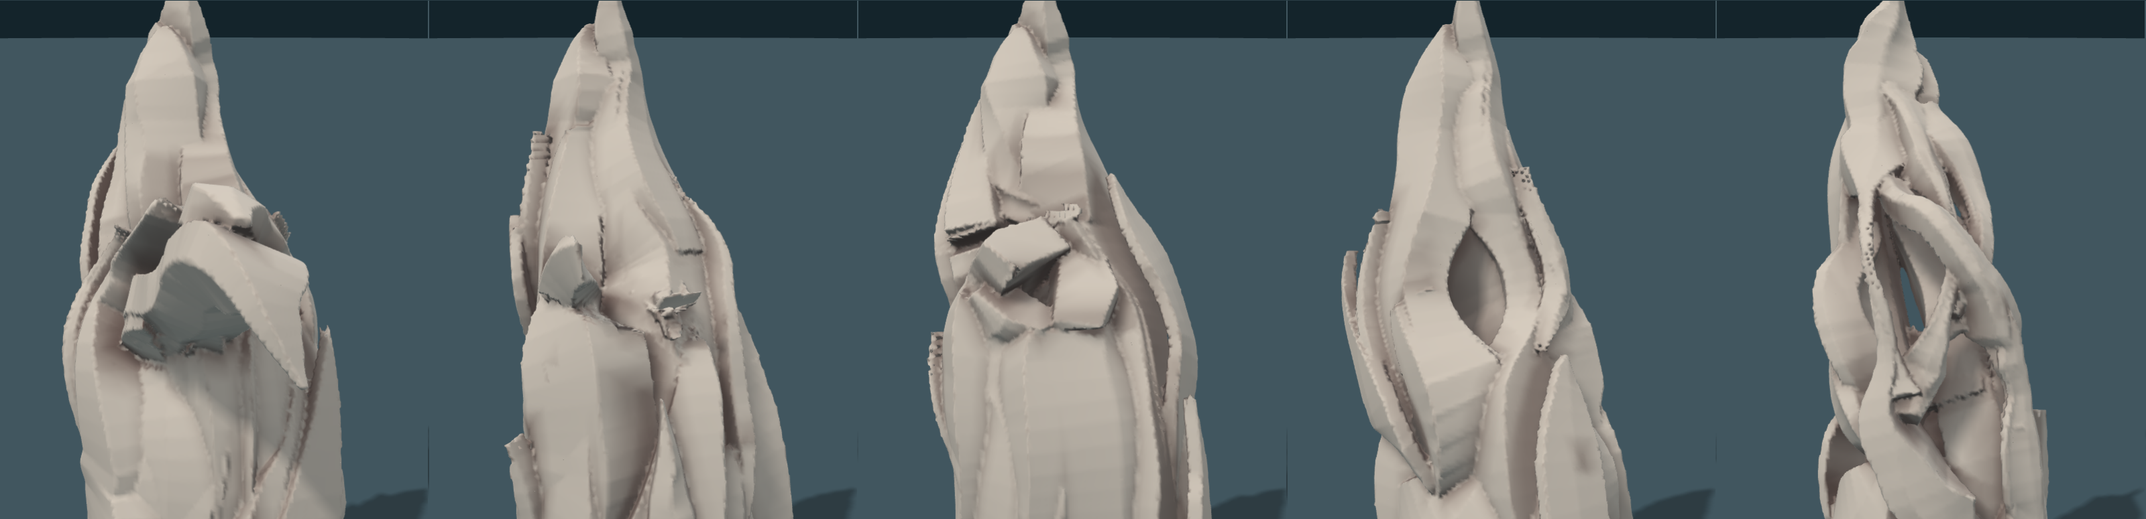
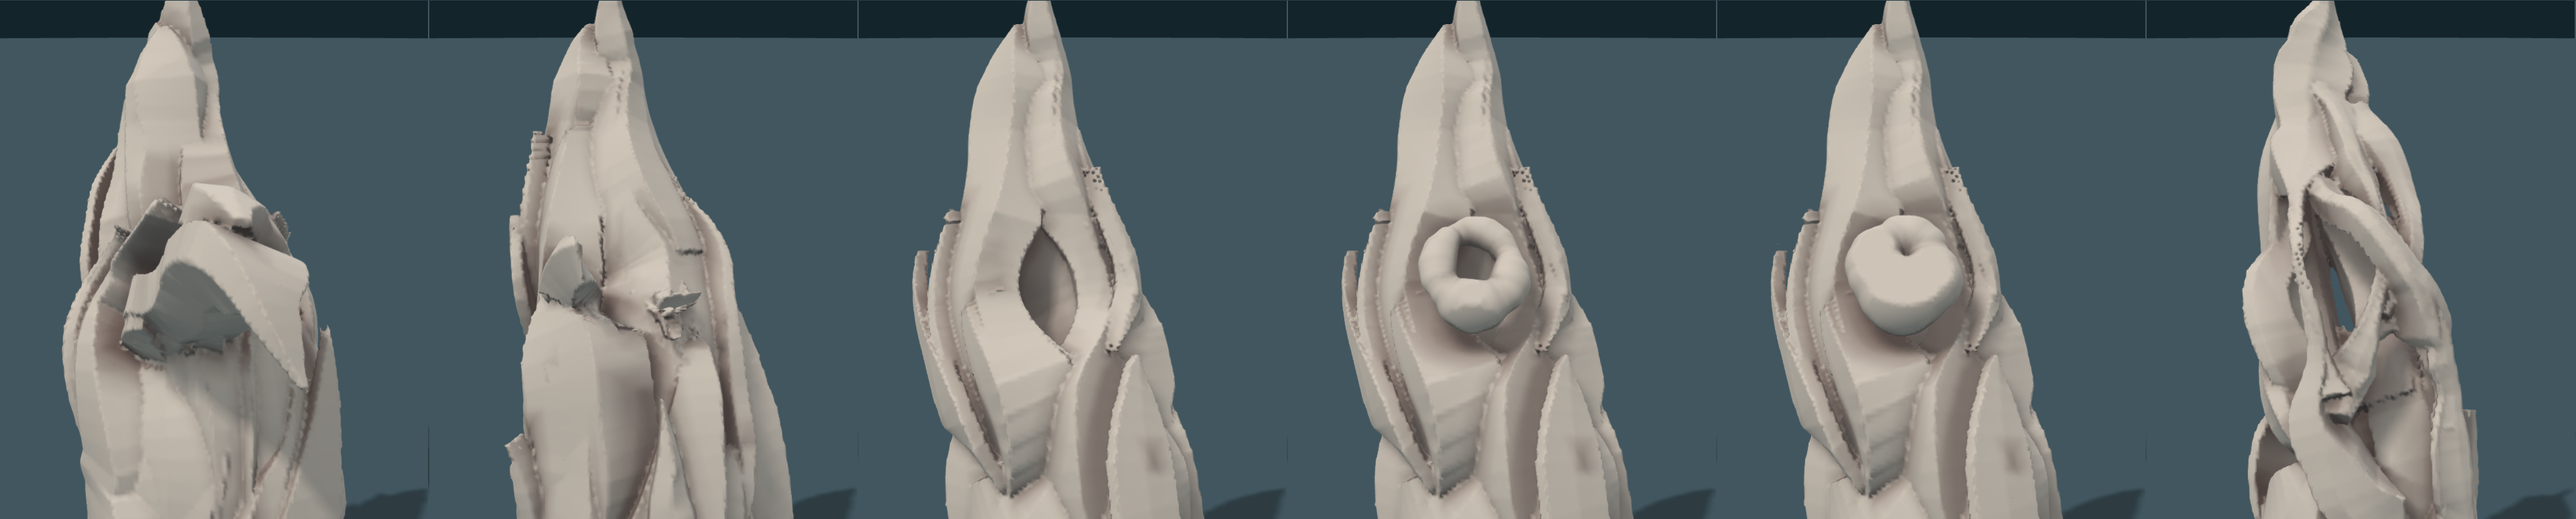
Scar as its own material: a knot is a hollow healed over by lips of scar; the knot of strand ends is withdrawn
Claude-Session: https://claude.ai/code/session_0192rgp75jGkttZXf7hEakip

diff --git a/trees.js b/trees.js
@@ -41,8 +41,8 @@
     const lay = (Ls, parent) => { for (const L of Ls || []) {
       const base = parent ? parent.path : trunk, from = parent ? parent.fi : 0, fi = Math.min(base.length - 2, Math.max(from + (parent ? 1 : 0), from + Math.round(L.at * (base.length - 1 - from))));
       const ctrl = [base[Math.max(0, fi - 14)], base[fi], ...L.path.map((p) => [p[0], p[1], p[2], 0])], all = line(ctrl, ds), skip = all.findIndex((p) => H(p[0] - base[fi][0], p[1] - base[fi][1], p[2] - base[fi][2]) < ds * 0.8);
-      // (a snapped shoot is cut short here: a fresh stub is longer than it is wide, a knot's is nearly flush, a hollow's is only a direction)
-      const want = Math.max(1, L.count || Math.round(L.share * n)), Re = base[fi][3] * Math.sqrt(want / (parent ? parent.want : n)), keep = L.stub ? Math.max(2, Math.round((0.75 * base[fi][3] + (L.stub === 'fresh' ? 1.6 * Re + 0.05 : L.stub === 'knot' ? 0.25 * Re + 0.02 : 0.07)) / ds)) : Infinity;   // (measured from where it comes out of the wood it leaves, not from that wood's middle)
+      // (a snapped shoot is cut short here: a fresh stub is longer than it is wide; once it has rotted out it is only a direction)
+      const want = Math.max(1, L.count || Math.round(L.share * n)), Re = base[fi][3] * Math.sqrt(want / (parent ? parent.want : n)), keep = L.stub ? Math.max(2, Math.round((0.75 * base[fi][3] + (L.stub === 'fresh' ? 1.6 * Re + 0.05 : 0.07)) / ds)) : Infinity;   // (measured from where it comes out of the wood it leaves, not from that wood's middle)
       const own = all.slice(Math.max(1, skip + 1)).slice(0, keep), lb = { L, fi, parent, own, base, want };
       lb.path = base.slice(0, fi + 1).concat(own); limbs.push(lb); lay(L.limbs, lb); } };
     lay(P.limbs, null); limbs.sort((x, y) => x.fi - y.fi); limbs.forEach((lb, li) => (lb.i = li));
@@ -65,9 +65,9 @@
       return [(s.a - m.ca) / m.ext, (s.b - m.cb) / m.ext, m.n]; };
     for (const s of S) {
       const path = s.limb >= 0 ? limbs[s.limb].path : trunk, fr = s.limb >= 0 ? limbs[s.limb].frames : tf, fi = s.limb >= 0 ? limbs[s.limb].fi : -1, own = path.length - 1 - Math.max(0, fi);
-      const first = s === S.find((q) => q.limb === s.limb), u1 = r(), u2 = r(), u3 = r(), stub = s.limb >= 0 ? limbs[s.limb].L.stub : null; s.snapped = stub ? stub !== 'hollow' : !first && u1 < 0.6;   // some strands snap short of the end, and keep their girth to the break
+      const first = s === S.find((q) => q.limb === s.limb), u1 = r(), u2 = r(), u3 = r(), stub = s.limb >= 0 ? limbs[s.limb].L.stub : null; s.snapped = stub ? stub === 'fresh' : !first && u1 < 0.6;   // some strands snap short of the end, and keep their girth to the break
       // (a shoot that snapped off: all its strands end at the break, a little apart; where it has rotted out they end below where it left, fined down to points like any other end)
-      const end = stub ? (stub === 'hollow' ? Math.max(4, fi - 3 - Math.round(5 * u2)) : path.length - 1 - (stub === 'knot' ? 0 : Math.round(own * 0.4 * u2))) : path.length - 1 - (first ? 0 : Math.round(own * (s.snapped ? 0.25 + 0.4 * u2 : 0.3 * u2))), fine = 0.12 + 0.2 * u3, X = [], rho = [], goal = [], hold = [];
+      const end = stub ? (stub !== 'fresh' ? Math.max(4, fi - 3 - Math.round(5 * u2)) : path.length - 1 - Math.round(own * 0.4 * u2)) : path.length - 1 - (first ? 0 : Math.round(own * (s.snapped ? 0.25 + 0.4 * u2 : 0.3 * u2))), fine = 0.12 + 0.2 * u3, X = [], rho = [], goal = [], hold = [];
       for (let i = 0; i <= end; i++) {
         const [u, v, m] = place(s, i), ow = ownerAt(s.limb, i), Rg = path[i][3] * Math.sqrt(m / (ow >= 0 ? limbs[ow].count : n)) * 0.8, wind = windAt(s.limb, i), c = Math.cos(wind), sn = Math.sin(wind), a = u * c - v * sn, b = u * sn + v * c, [, Nn, Bn] = fr[i];
         // (a limb's strands wind round each other as they go out)
@@ -86,16 +86,15 @@
     }
     // Where a shoot snapped off (a limb given as a `stub`). Three ages of the same event:
     //   fresh   the stub stands, its strands broken off a little apart
-    //   knot    the stub is nearly flush, and the wood that stayed has thickened round it
-    //   hollow  the stub has rotted out: its strands end inside
-    // In all three the place where the shoot was stays its own: a tunnel along its line, from inside the wood it
-    // left to well outside, which no other strand may lie in. So the wood that stayed flows round the wound and
-    // never closes across it. And the wood near the wound thickens (the collar). How much stub is left in the
-    // tunnel, how deep it goes and how thick the collar is, is the age.
+    //   hollow  the stub has rotted out: its strands end below, fined to points, and there is room where it was
+    //   knot    the same, healed over. Here a knot is exactly a hollow; what closes it is not wood and is not made
+    //           here (the surface lays scar over it). A knot built of strand ends was tried and withdrawn.
+    // A fresh stub keeps the place the shoot had as its own: a tunnel along its line which no other strand may
+    // lie in. And the wood near any wound thickens a little.
     const marks = [];
     for (const lb of limbs) if (lb.L.stub) { const b = lb.base[lb.fi], own = lb.own, d = unit([0, 1, 2].map((k) => own[Math.min(own.length - 1, 3)][k] - b[k])), s0 = S.find((q) => q.limb === lb.i), m = place(s0, lb.fi)[2], kind = lb.L.stub;
       // (a hollow is no wider than leaves the wood a back: wider, it is a window through it)
-      const Rb = b[3] * Math.sqrt(m / (lb.parent ? lb.parent.count : n)) * 0.8, r = Math.min(Math.max(0.045, own[0][3] * 0.9), kind === 'hollow' ? Math.max(0.045, 0.55 * Rb) : 9), deep = kind === 'hollow' ? 0.9 * r : 0.6 * r, at = (f) => [0, 1, 2].map((k) => b[k] + d[k] * f);
+      const Rb = b[3] * Math.sqrt(m / (lb.parent ? lb.parent.count : n)) * 0.8, r = Math.min(Math.max(0.045, own[0][3] * 0.9), kind !== 'fresh' ? Math.max(0.045, 0.55 * Rb) : 9), deep = kind !== 'fresh' ? 0.9 * r : 0.6 * r, at = (f) => [0, 1, 2].map((k) => b[k] + d[k] * f);
       marks.push({ c: at(Rb), a: at(Math.max(0, Rb - deep)), e: at(Rb + 1.5 * r), o: at(0.85 * Rb), R: Math.max(0.07, 0.75 * Rb), r, d, kind, limb: lb.i }); }
     let vg = 1;
     // an orb held in the trunk: a ball, with room round it for the strands that are willing to give it
@@ -106,7 +105,7 @@
     // that stayed part round. It opens gradually, as a splitting orb's does: opened all at once it throws strands across its own
     // mouth. Given `hollow: { at }` (0.4, say) the strands also split over it, as over an orb: an older, more ravaged hollow.
     // (The first hollow of a tree that holds no orb; any other is only its tunnel.)
-    else { const v = marks.find((q) => q.kind === 'hollow'); if (v) { orb = { c: v.o, r: 0.7 * v.R, room: v.R, empty: true }; v.asOrb = true; } }
+    else { const v = marks.find((q) => q.kind !== 'fresh'); if (v) { orb = { c: v.o, r: 0.7 * v.R, room: v.R, empty: true }; v.asOrb = true; } }
     const rhoMax = Math.max(...S.map((s) => Math.max(...s.rho))), cell = rhoMax * 2.1;
     // a strand that has split off another parts from it gradually: at the join the two are one, and they come
     // fully apart only some way along. (0: still one; 1: two.)
@@ -182,9 +181,9 @@
       S.forEach((s, i) => { for (let q = 0; q < s.K * 3; q++) s.X[q] += M[i][q]; }); }
       for (const s of S) for (let k = 0; k < s.K; k++) {   // to the orb, each as far as it is willing; and to the ground
         if (orb) { const keep = (orb.r + (orb.room - orb.r) * s.give) * grown + s.rho[k], dx = s.X[k * 3] - orb.c[0], dy = s.X[k * 3 + 1] - orb.c[1], dz = s.X[k * 3 + 2] - orb.c[2], d = H(dx, dy, dz) || 1e-9; s.on[k] = d < keep + 0.004 ? 1 : 0; if (d < keep) { s.press += keep - d; const f = keep / d; s.X[k * 3] = orb.c[0] + dx * f; s.X[k * 3 + 1] = orb.c[1] + dy * f; s.X[k * 3 + 2] = orb.c[2] + dz * f; } }
-        for (const v of marks) { if (v.asOrb || (s.limb === v.limb && v.kind !== 'hollow')) continue;   // and out of the tunnel where a shoot was (its own stub, if it has one, is what lies there)
+        for (const v of marks) { if (v.asOrb || (s.limb === v.limb && v.kind === 'fresh')) continue;   // and out of the tunnel where a shoot was (its own stub, if it has one, is what lies there)
           const ax = v.e[0] - v.a[0], ay = v.e[1] - v.a[1], az = v.e[2] - v.a[2], t = Math.max(0, Math.min(1, ((s.X[k * 3] - v.a[0]) * ax + (s.X[k * 3 + 1] - v.a[1]) * ay + (s.X[k * 3 + 2] - v.a[2]) * az) / (ax * ax + ay * ay + az * az))), qx = v.a[0] + ax * t, qy = v.a[1] + ay * t, qz = v.a[2] + az * t;
-          const keep = v.r * (v.kind === 'hollow' ? 1 : 0.8) * vg + s.rho[k], dx = s.X[k * 3] - qx, dy = s.X[k * 3 + 1] - qy, dz = s.X[k * 3 + 2] - qz, d = H(dx, dy, dz) || 1e-9; if (d < keep) { const f = keep / d; s.X[k * 3] = qx + dx * f; s.X[k * 3 + 1] = qy + dy * f; s.X[k * 3 + 2] = qz + dz * f; } }
+          const keep = v.r * (v.kind !== 'fresh' ? 1 : 0.8) * vg + s.rho[k], dx = s.X[k * 3] - qx, dy = s.X[k * 3 + 1] - qy, dz = s.X[k * 3 + 2] - qz, d = H(dx, dy, dz) || 1e-9; if (d < keep) { const f = keep / d; s.X[k * 3] = qx + dx * f; s.X[k * 3 + 1] = qy + dy * f; s.X[k * 3 + 2] = qz + dz * f; } }
         if (s.goal[k * 3 + 1] > 0 && s.X[k * 3 + 1] < s.rho[k] * 0.6) s.X[k * 3 + 1] = s.rho[k] * 0.6; }   // but a root that dives is let through
       joins();
       if (SP && pass % SP.every === 0) { const cand = S.map((s, i) => [s.press, i]).filter((q) => q[0] > SP.at).sort((a, b) => b[0] - a[0]); for (const [, i] of cand) { if (S.length >= SP.most) break; divide(i); } for (const s of S) s.press = 0; }
@@ -199,9 +198,9 @@
       S.forEach((s, i) => { for (let q = 0; q < s.K * 3; q++) s.X[q] += M[i][q]; }); }
       for (const s of S) for (let k = 0; k < s.K; k++) {   // to the orb, each as far as it is willing; and to the ground
         if (orb) { const keep = (orb.r + (orb.room - orb.r) * s.give) * grown + s.rho[k], dx = s.X[k * 3] - orb.c[0], dy = s.X[k * 3 + 1] - orb.c[1], dz = s.X[k * 3 + 2] - orb.c[2], d = H(dx, dy, dz) || 1e-9; s.on[k] = d < keep + 0.004 ? 1 : 0; if (d < keep) { const f = keep / d; s.X[k * 3] = orb.c[0] + dx * f; s.X[k * 3 + 1] = orb.c[1] + dy * f; s.X[k * 3 + 2] = orb.c[2] + dz * f; } }
-        for (const v of marks) { if (v.asOrb || (s.limb === v.limb && v.kind !== 'hollow')) continue;   // and out of the tunnel where a shoot was (its own stub, if it has one, is what lies there)
+        for (const v of marks) { if (v.asOrb || (s.limb === v.limb && v.kind === 'fresh')) continue;   // and out of the tunnel where a shoot was (its own stub, if it has one, is what lies there)
           const ax = v.e[0] - v.a[0], ay = v.e[1] - v.a[1], az = v.e[2] - v.a[2], t = Math.max(0, Math.min(1, ((s.X[k * 3] - v.a[0]) * ax + (s.X[k * 3 + 1] - v.a[1]) * ay + (s.X[k * 3 + 2] - v.a[2]) * az) / (ax * ax + ay * ay + az * az))), qx = v.a[0] + ax * t, qy = v.a[1] + ay * t, qz = v.a[2] + az * t;
-          const keep = v.r * (v.kind === 'hollow' ? 1 : 0.8) * vg + s.rho[k], dx = s.X[k * 3] - qx, dy = s.X[k * 3 + 1] - qy, dz = s.X[k * 3 + 2] - qz, d = H(dx, dy, dz) || 1e-9; if (d < keep) { const f = keep / d; s.X[k * 3] = qx + dx * f; s.X[k * 3 + 1] = qy + dy * f; s.X[k * 3 + 2] = qz + dz * f; } }
+          const keep = v.r * (v.kind !== 'fresh' ? 1 : 0.8) * vg + s.rho[k], dx = s.X[k * 3] - qx, dy = s.X[k * 3 + 1] - qy, dz = s.X[k * 3 + 2] - qz, d = H(dx, dy, dz) || 1e-9; if (d < keep) { const f = keep / d; s.X[k * 3] = qx + dx * f; s.X[k * 3 + 1] = qy + dy * f; s.X[k * 3 + 2] = qz + dz * f; } }
         if (s.goal[k * 3 + 1] > 0 && s.X[k * 3 + 1] < s.rho[k] * 0.6) s.X[k * 3 + 1] = s.rho[k] * 0.6; }   // but a root that dives is let through
       joins();
     }

diff --git a/sketch/page7.js b/sketch/page7.js
@@ -11,7 +11,7 @@
 // Nothing is swept or blended. Throwaway like the other pages.
 (function () {
   const shard = (K) => Wood5.shard(Object.assign(K, { inset: true })),   // a slanted end cuts back into its piece, never out past it
-    { H, PI, clamp, sstep } = Fantastic.kit, mesh = Fantastic.mesh;
+    { H, PI, clamp, sstep, smin } = Fantastic.kit, mesh = Fantastic.mesh;
   function rng(seed) { let a = (seed * 2654435761) >>> 0; return () => { a = (a + 0x6d2b79f5) | 0; let t = Math.imul(a ^ (a >>> 15), 1 | a); t = (t + Math.imul(t ^ (t >>> 7), 61 | t)) ^ t; return ((t ^ (t >>> 14)) >>> 0) / 4294967296; }; }
   const unit = (a) => { const l = H(a[0], a[1], a[2]) || 1; return [a[0] / l, a[1] / l, a[2] / l]; }, cross = (a, b) => [a[1] * b[2] - a[2] * b[1], a[2] * b[0] - a[0] * b[2], a[0] * b[1] - a[1] * b[0]], dot = (a, b) => a[0] * b[0] + a[1] * b[1] + a[2] * b[2];
   // ?set={...} in the page's address overrides any part of every recipe, for finding out what causes what
@@ -23,7 +23,7 @@
     // Room kept clear in the wood: round an orb, and where a snapped shoot has rotted out. And every wound, hollow or not,
     // is left quiet: no bark, shell or slivers near it, so that it is not one more detail among the others.
     // (An orb's room is a ball; a hollow's is the tunnel the shoot left, from a to e. `to` is the nearest point of a room's middle.)
-    const rooms = (t.orb ? [{ a: t.orb.c, e: t.orb.c, room: t.orb.room, orb: true }] : []).concat((t.marks || []).filter((v) => v.kind === 'hollow' && !v.asOrb).map((v) => ({ a: v.a, e: v.e, room: v.r }))), wounds = t.marks || [];
+    const rooms = (t.orb ? [{ a: t.orb.c, e: t.orb.c, room: t.orb.room, orb: true }] : []).concat((t.marks || []).filter((v) => v.kind !== 'fresh' && !v.asOrb).map((v) => ({ a: v.a, e: v.e, room: v.r }))), wounds = t.marks || [];
     const to = (o, x, y, z) => { const ax = o.e[0] - o.a[0], ay = o.e[1] - o.a[1], az = o.e[2] - o.a[2], l = ax * ax + ay * ay + az * az, u = l ? Math.max(0, Math.min(1, ((x - o.a[0]) * ax + (y - o.a[1]) * ay + (z - o.a[2]) * az) / l)) : 0; return [o.a[0] + ax * u, o.a[1] + ay * u, o.a[2] + az * u]; },
       away = (o, x, y, z) => { const q = to(o, x, y, z); return H(x - q[0], y - q[1], z - q[2]); };
     const nearOrb = (p) => (t.orb ? 1 - sstep(1.3, 2.2, H(p[0] - t.orb.c[0], p[1] - t.orb.c[1], p[2] - t.orb.c[2]) / t.orb.room) : 0);
@@ -78,7 +78,7 @@
           let lipU = 0; if (inn) { const sg = dot(inn, sv); if (Math.abs(sg) > 0.4) lipU = Math.sign(sg) * roomToward(base, sv.map((v) => v * Math.sign(sg)), Math.min(0.25 * s.gap[i], 1.0 * rho), rho, si, s.fam); }
           const home = fine && !s.thread && s.inner && s.inner[i] ? (first ? 1 - sstep(0, 0.35, q) : 0) + (last ? sstep(0.65, 1, q) : 0) : 0, hm = home ? home * (s.gap[i] + 0.6 * rho) : 0;   // its two ends bend back into what it tore from, so that it is never left hanging
           C.push([0, 1, 2].map((j) => base[j] + off[j] * stay + s.O[i][j] * rho * lift + (sv ? sv[j] * (gu + lipU) / 2 : 0) + (hm ? s.inner[i][j] * hm : 0))); O.push(s.O[i]); W.push(Math.max(0.006, Math.min(wCap, rho * w * front * back + (Math.abs(gu) + Math.abs(lipU)) / 2))); Hh.push(rho * high * (0.6 + 0.4 * front) + Math.max(0, gv) * 0.5); D.push(deepHere + Math.max(0, -gv)); }
-        const w1 = W[W.length - 1], end = ending === 'own' ? (s.stub === 'knot' ? { skew: 0.5 * (r() - 0.5) } : s.snapped ? { skew: (r() < 0.5 ? -1 : 1) * (1.8 + 1.4 * r()), step: r() < 0.5 ? { u: 0.5 * (r() - 0.5), side: r() < 0.5 ? -1 : 1, a: w1 * (0.8 + 1.4 * r()) } : null } : { skew: 0 })
+        const w1 = W[W.length - 1], end = ending === 'own' ? (s.snapped ? { skew: (r() < 0.5 ? -1 : 1) * (1.8 + 1.4 * r()), step: r() < 0.5 ? { u: 0.5 * (r() - 0.5), side: r() < 0.5 ? -1 : 1, a: w1 * (0.8 + 1.4 * r()) } : null } : { skew: 0 })
           : ending === 'step' ? { skew: (r() < 0.5 ? -1 : 1) * (1.8 + 1.2 * r()), step: { u: 0.5 * (r() - 0.5), side: r() < 0.5 ? -1 : 1, a: w1 * (0.9 + 1.2 * r()) } } : ending === 'blunt' ? { skew: (r() < 0.5 ? -1 : 1) * (1.8 + 1.4 * r()) } : { skew: 0 };
         // The next piece starts under this one's front, as far back as the front is cut away: a point takes the last
         // third, a slant runs back by its skew times the width. Started any later it leaves a hole where the cut
@@ -145,6 +145,23 @@
     // is taken off again. Where bark stops, it stops on the boundary between two cells, so its edge is straight
     // runs and angles. The sheet itself is thin, flat-faced, of one thickness to its edge, and lies over the
     // strands, spanning the grooves between them. In places along the edge it has peeled.
+    // Scar. Where a shoot has rotted out and the wood has healed over the place, what closes it is a different
+    // stuff: soft and swollen, rolling in from the rim of the opening as a few lips of unequal size that press
+    // together in creases. It is not wood and is not built of wood's pieces. It lies in the room the strands left
+    // and nowhere else, so the strands hold it as they would an orb. It is narrower across the grain than along it,
+    // as the opening is, and does not stand far out of the wood. heal: 0 none (an open hollow), about 0.45
+    // lips round a hole, 0.9 closed (a knot).
+    const heal = Object.assign({ knot: 0.9, hollow: 0 }, recipe.heal || {}); count.scars = 0;
+    for (const v of wounds) { const hl = heal[v.kind] || 0; if (!hl || !v.asOrb || !t.orb) continue;
+      const c = t.orb.c, R = t.orb.room, d = v.d, u = unit(cross(d, Math.abs(d[1]) < 0.9 ? [0, 1, 0] : [1, 0, 0])), w = cross(d, u), rs = rng((recipe.seed || 1) + 77), n = 3 + Math.floor(2 * rs()), cuts = [], lips = [];
+      for (let i = 0, a = 2 * PI * rs(); i < n; i++) { cuts.push(a); a += 2 * PI / n * (0.6 + 0.8 * rs()); }
+      for (let i = 0; i < n; i++) { const a0 = cuts[i], a1 = i + 1 < n ? cuts[i + 1] : cuts[0] + 2 * PI, lr = R * (0.2 + 0.42 * hl) * (0.6 + 0.8 * rs()), rr = Math.max(0, R - lr * 0.95), m = R * (0.15 + 0.2 * rs()), pts = [];
+        for (let q = 0; q <= 4; q++) { const a = a0 + (a1 - a0) * (0.08 + 0.84 * q / 4); pts.push([0, 1, 2].map((k) => c[k] + d[k] * m + (u[k] * Math.cos(a) * 0.78 + w[k] * Math.sin(a)) * rr).concat(lr * (0.7 + 0.3 * Math.sin(PI * q / 4)))); }   // thickest in its middle
+        lips.push(pts); }
+      const f = (x, y, z) => { let dd = 9; for (const pts of lips) { let e = 9; for (let q = 0; q < 4; q++) { const a = pts[q], b = pts[q + 1], bx = b[0] - a[0], by = b[1] - a[1], bz = b[2] - a[2], tt = clamp(((x - a[0]) * bx + (y - a[1]) * by + (z - a[2]) * bz) / (bx * bx + by * by + bz * bz || 1e-9), 0, 1);
+            e = Math.min(e, H(x - a[0] - bx * tt, y - a[1] - by * tt, z - a[2] - bz * tt) - (a[3] + (b[3] - a[3]) * tt)); } dd = smin(dd, e, 0.012); }
+        return Math.max(dd, H(x - c[0], y - c[1], z - c[2]) - R * 0.99, (x - c[0]) * d[0] + (y - c[1]) * d[1] + (z - c[2]) * d[2] - 0.6 * R); };
+      all.push({ f, C: [c], reach: [R + 0.02], layer: 4 }); count.scars++; }
     const BK = recipe.bare || recipe.bark === 0 ? null : Object.assign({ cell: 0.075, stretch: 1.6, cover: 0.4, percolate: 0.985, cohere: 0.6, least: 10, thick: 0.02, peel: 0.18 }, recipe.bark || {}), rb = rng((recipe.seed || 1) + 123);
     // which pieces are near which place, so that only those are asked
     const cell = 0.12, grid = new Map(), key = (x, y, z) => (x + 64) * 16384 + (y + 64) * 128 + z + 64;

diff --git a/sketchbook10.html b/sketchbook10.html
@@ -20,7 +20,7 @@ select:focus-visible { outline: 2px solid var(--pick); outline-offset: 1px; }
   <label>shape <select id="which" aria-label="Which shape to show"><option value="-1">the whole page</option></select></label>
   <label>show <select id="cut" aria-label="How to show it"><option value="none">whole</option><option value="half">near half removed</option><option value="slice">thin slice</option></select></label>
   <label><input id="tint" type="checkbox"> colour by layer</label>
-  <span id="key" hidden style="font: 11.5px var(--mono); color: var(--dim)"><b style="color:#d8d2c6">strands</b> · <b style="color:#e6c36a">torn parts</b> · <b style="color:#e08ac0">slivers and shell</b> · <b style="color:#6f9fe0">bark</b></span>
+  <span id="key" hidden style="font: 11.5px var(--mono); color: var(--dim)"><b style="color:#d8d2c6">strands</b> · <b style="color:#e6c36a">torn parts</b> · <b style="color:#e08ac0">slivers and shell</b> · <b style="color:#6f9fe0">bark</b> · <b style="color:#86c98f">scar</b></span>
   <p>A sketchbook page: quick, rough, thrown away if nothing sticks. Sketches appear one at a time. Drag to turn, scroll to zoom.</p>
 </div>
 <div id="stage"><canvas id="view" aria-label="Sculpted solid shapes"></canvas><div id="tags"></div></div>
@@ -50,7 +50,7 @@ const clay = new T.Color(0xe7e0d4).convertSRGBToLinear(), deep = new T.Color(0x9
 const shapes = [], orbMat = new T.MeshStandardMaterial({ color: new T.Color(0xfff6e0).convertSRGBToLinear(), emissive: new T.Color(0xffe9b8).convertSRGBToLinear(), emissiveIntensity: 0.85, roughness: 0.6 });
 // each shape takes about a second to mesh, so they are built one at a time and appear as they finish
 // clay by default; or each layer in its own colour, to see which layer is doing what
-const LAYER = [0xd8d2c6, 0xe6c36a, 0xe08ac0, 0x6f9fe0].map((c) => new T.Color(c).convertSRGBToLinear());
+const LAYER = [0xd8d2c6, 0xe6c36a, 0xe08ac0, 0x6f9fe0, 0x86c98f].map((c) => new T.Color(c).convertSRGBToLinear());
 function paint(sh) { const col = sh.mesh.geometry.attributes.color.array, on = $('tint').checked && sh.layer;
   for (let q = 0; q < sh.tone.length; q++) { const k = Math.pow(Math.min(1, Math.max(0, sh.tone[q])), 1.3), l = 0.36 + 0.64 * k, c = on ? LAYER[sh.layer[q]] : clay; col[q * 3] = (deep.r + (c.r - deep.r) * k) * l; col[q * 3 + 1] = (deep.g + (c.g - deep.g) * k) * l; col[q * 3 + 2] = (deep.b + (c.b - deep.b) * k) * l; }
   sh.mesh.geometry.attributes.color.needsUpdate = true; }

diff --git a/sketch/page10.js b/sketch/page10.js
@@ -1,5 +1,6 @@
 // Sketchbook, page 10. A snapped limb, on a test piece: page 7's one-limb trunk whole, and with its limb broken
-// off at each of three ages: a fresh break, a knot, a hollow; and the hollow again with the strands split over it.
+// off: a fresh break; a hollow; the hollow with lips of scar round it; healed over (a knot); and the hollow with
+// the strands split over it.
 // Throwaway like the other pages.
 (function () {
   const { tree } = Trees7, mesh = Fantastic.mesh;
@@ -8,8 +9,9 @@
   const S = [
     ['whole', R(undefined)],
     ['fresh break', R('fresh')],
-    ['knot', R('knot')],
     ['hollow', R('hollow')],
+    ['hollow, lips round it', R('hollow', { heal: { hollow: 0.45 } })],
+    ['knot: healed over', R('knot')],
     ['hollow, torn over', R('hollow', { hollow: { at: 0.4 } })],
   ];
   if (typeof location !== 'undefined') { const only = new URLSearchParams(location.search).get('only'); if (only) { const keep = only.split(',').map(Number).map((i) => S[i]).filter(Boolean); S.length = 0; S.push(...keep); } }   // ?only=2 builds just that one

diff --git a/LOG.md b/LOG.md
@@ -2575,3 +2575,41 @@ Wrong, or not there:
   it comes out as loose tiles; not looked into.
 - A corner still has no cause. Putting the snapped shoot at a corner, as
   the lost leader, is not built.
+
+## Scar is its own stuff; the knot of strand ends is withdrawn
+
+Said of the knot on page 10 (`sketch/page10-knot-of-straps-withdrawn.png`,
+third column): "It's overworking it with inadequate tools. You're using
+straps of ribon to build the scar tissue around the hole."
+
+Retracted, from run 015: the knot as "the stub nearly flush and ending in
+one face, the wood round it thickened". It was wood's pieces set to do
+something wood's pieces do not do.
+
+What a knot is now. In the strands it is exactly a hollow: the shoot
+rotted out, its strands end below, the wood that stayed parts round the
+room it left. What closes the room is a different material, laid by the
+surface and not by the kernel: scar. Soft and swollen where the wood is
+flat-faced; a few lips of unequal size rolling in from the rim of the
+opening and pressing together in creases; lying in the room the strands
+left and nowhere else, so the strands hold it as they hold an orb. One
+dial, `heal`: 0 none (the open hollow), 0.45 lips round a hole, 0.9
+closed. That is the pairing already written down for this work, something
+thick that binds and something softer that swells, and it needed no new
+idea, only the second stuff.
+
+`sketch/page10.png`, `-close`, `-oblique`, six pieces: whole, fresh break,
+hollow, hollow with lips, knot, hollow torn over. `-scar-first.png` is the
+first try, by layer (scar is the fifth colour).
+
+What it does: both the lipped hollow and the knot read in the small
+picture, and read as a second material, not as more wood.
+
+Wrong, or not there:
+- It is still a fairly even ring, and a closed one is a bun. Narrowing it
+  across the grain and making the lips less equal helped a little. It does
+  not yet take its outline from the opening the strands actually leave,
+  which is an almond.
+- It stands a little proud of the wood. Nothing of the wood laps over it.
+- The fresh break is as it was: small.
+- Still one such place a tree, and still only on the test trunk.
